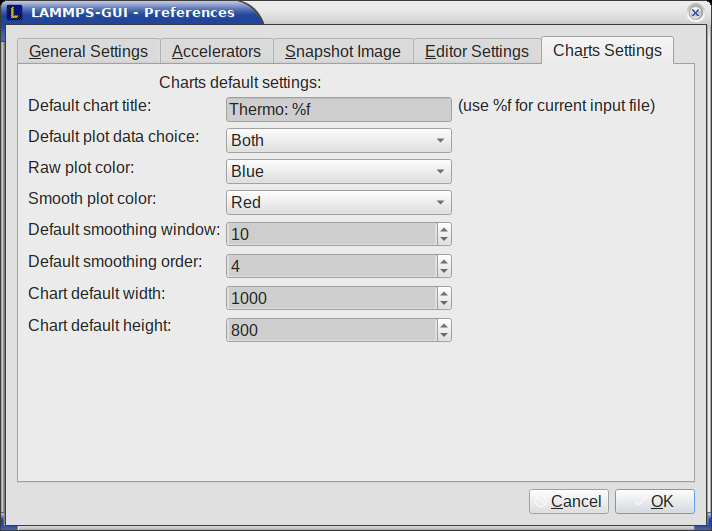
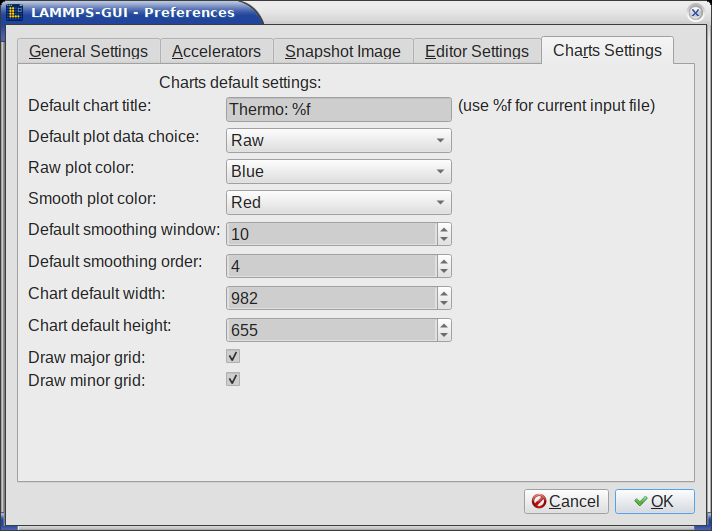
update a few more screenshots

diff --git a/doc/output.rst b/doc/output.rst
@@ -132,10 +132,9 @@ runs.
 
 The *Preferences* dialog has a *Charts* tab, where you can configure
 multiple chart-related settings, like the default title, colors for the
-graphs, default choice of the raw / smooth graph selection, and the
-default chart graph size.
-
-
+graphs, default choice of the raw / smooth graph selection, whether the
+grid for the major and minor ticks is drawn, and the default chart graph
+size.
 
 .. admonition:: Slowdown of Simulations from Charts Data Processing
    :class: warning
